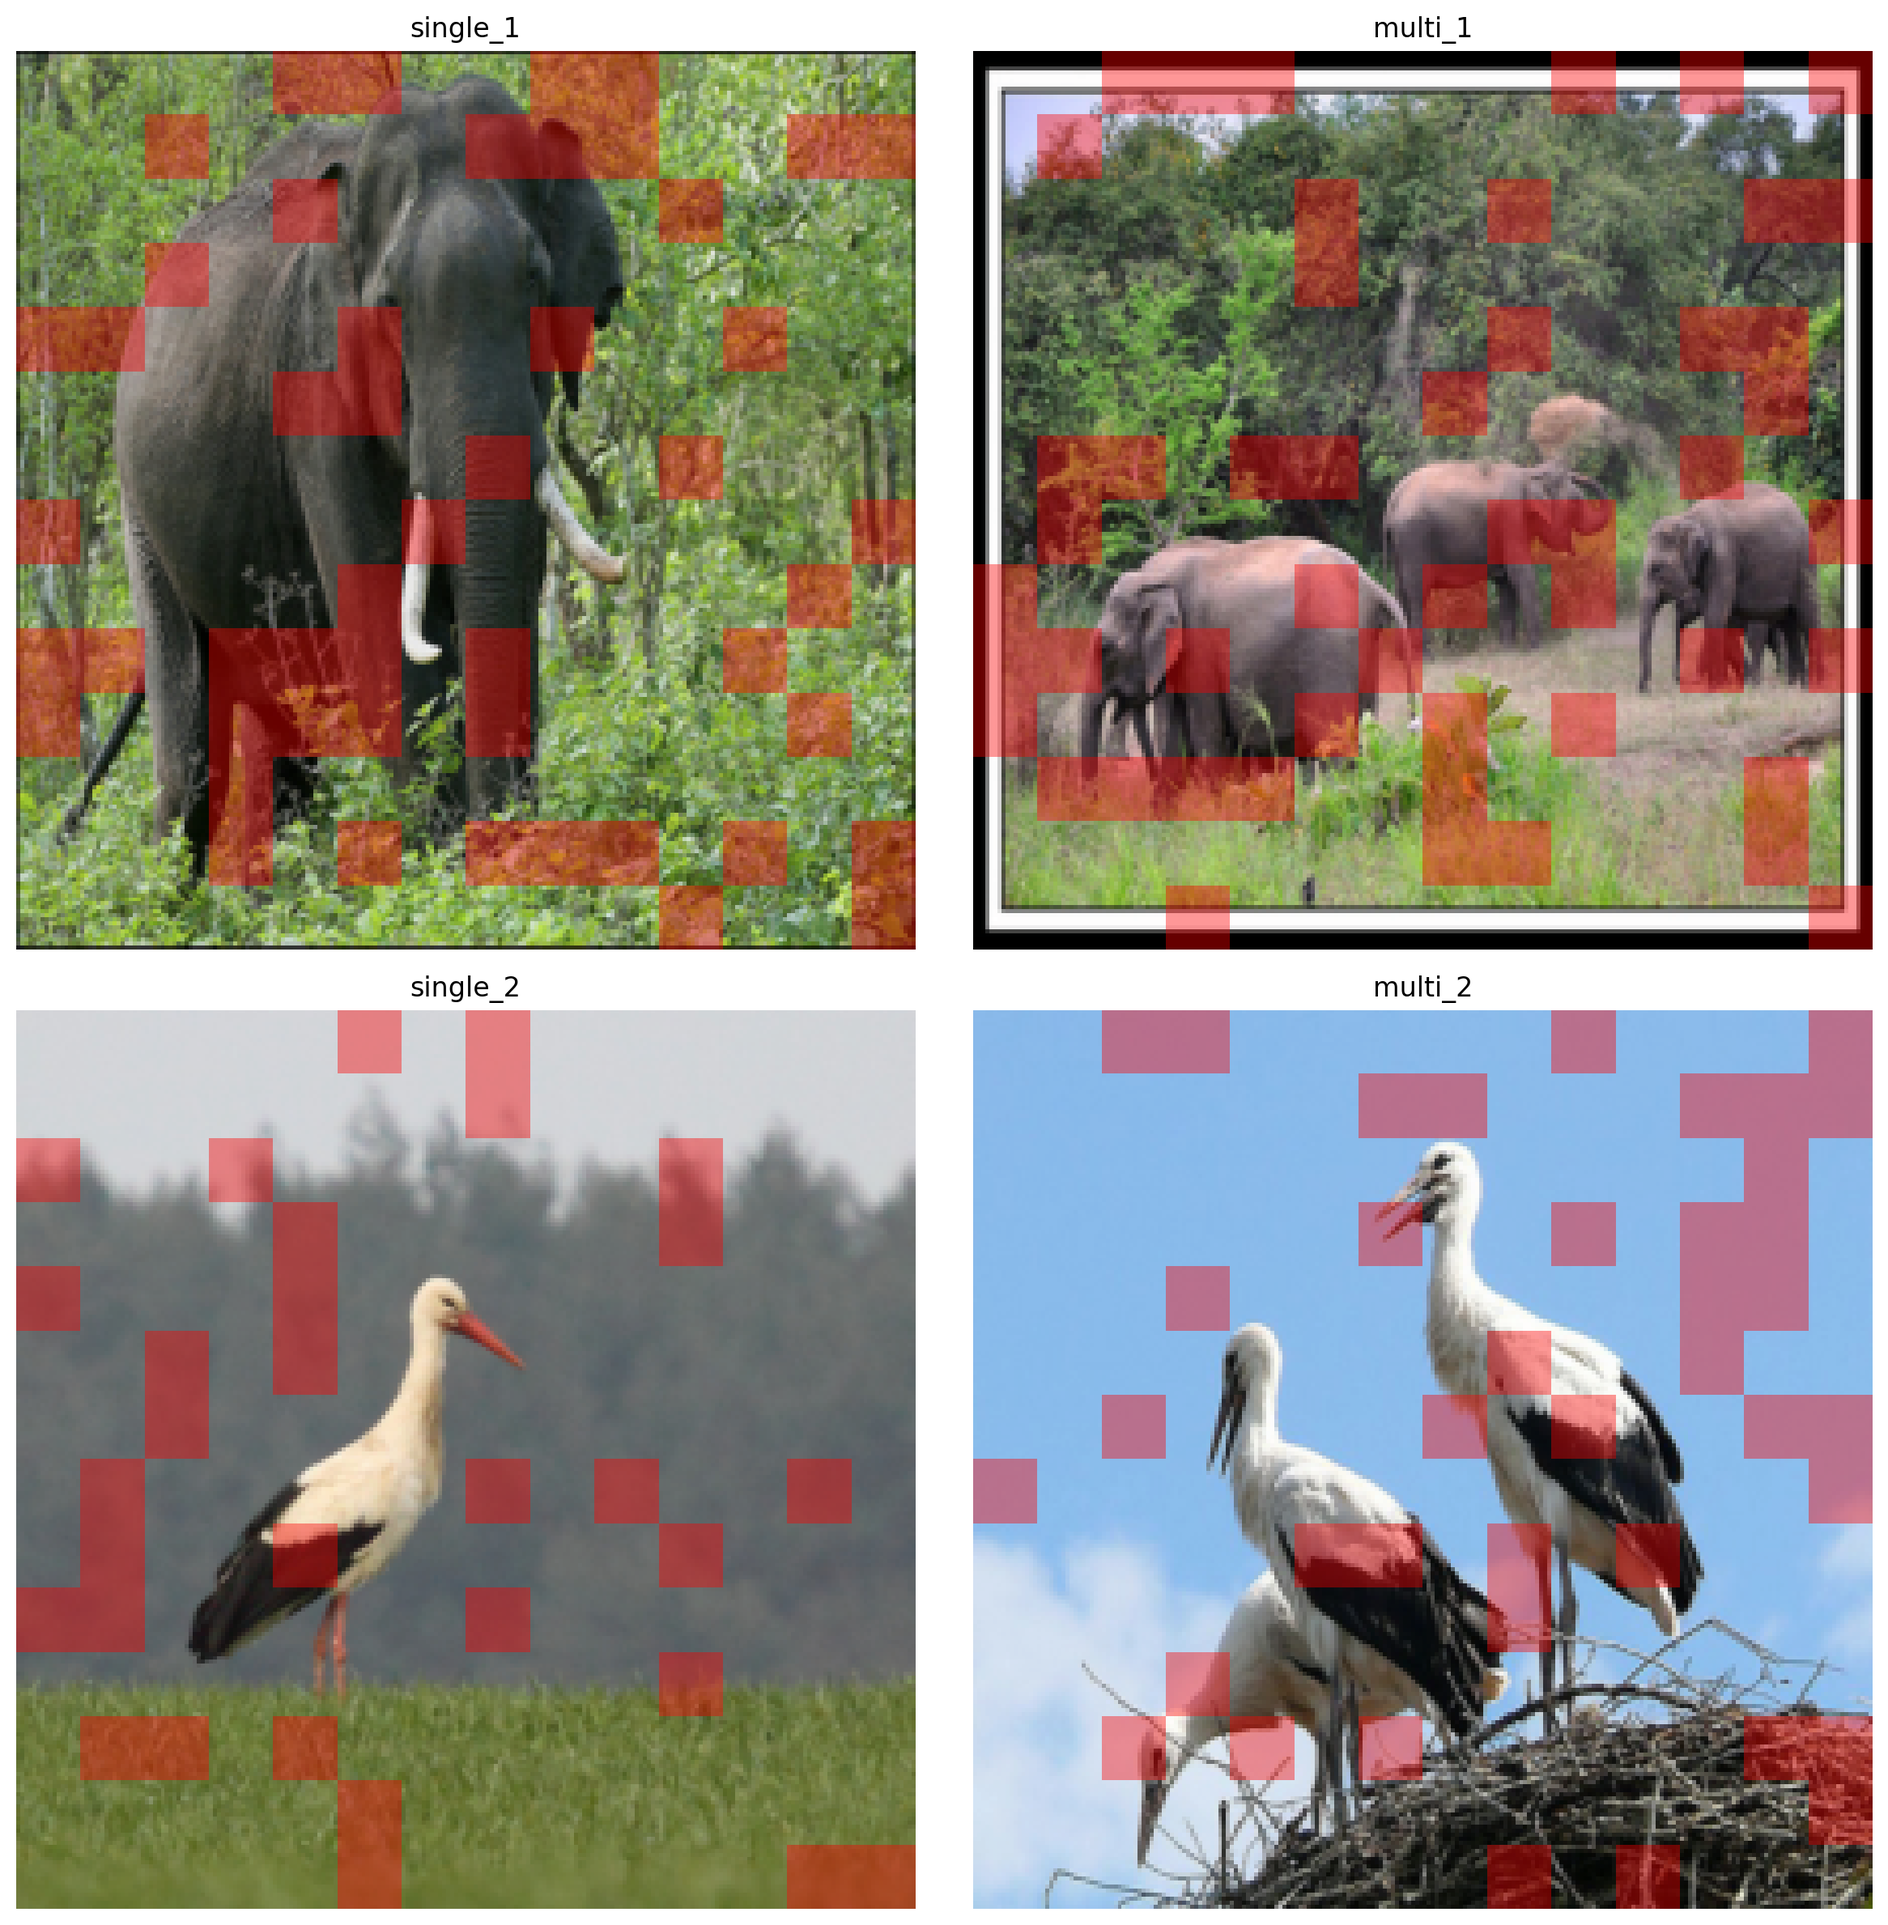
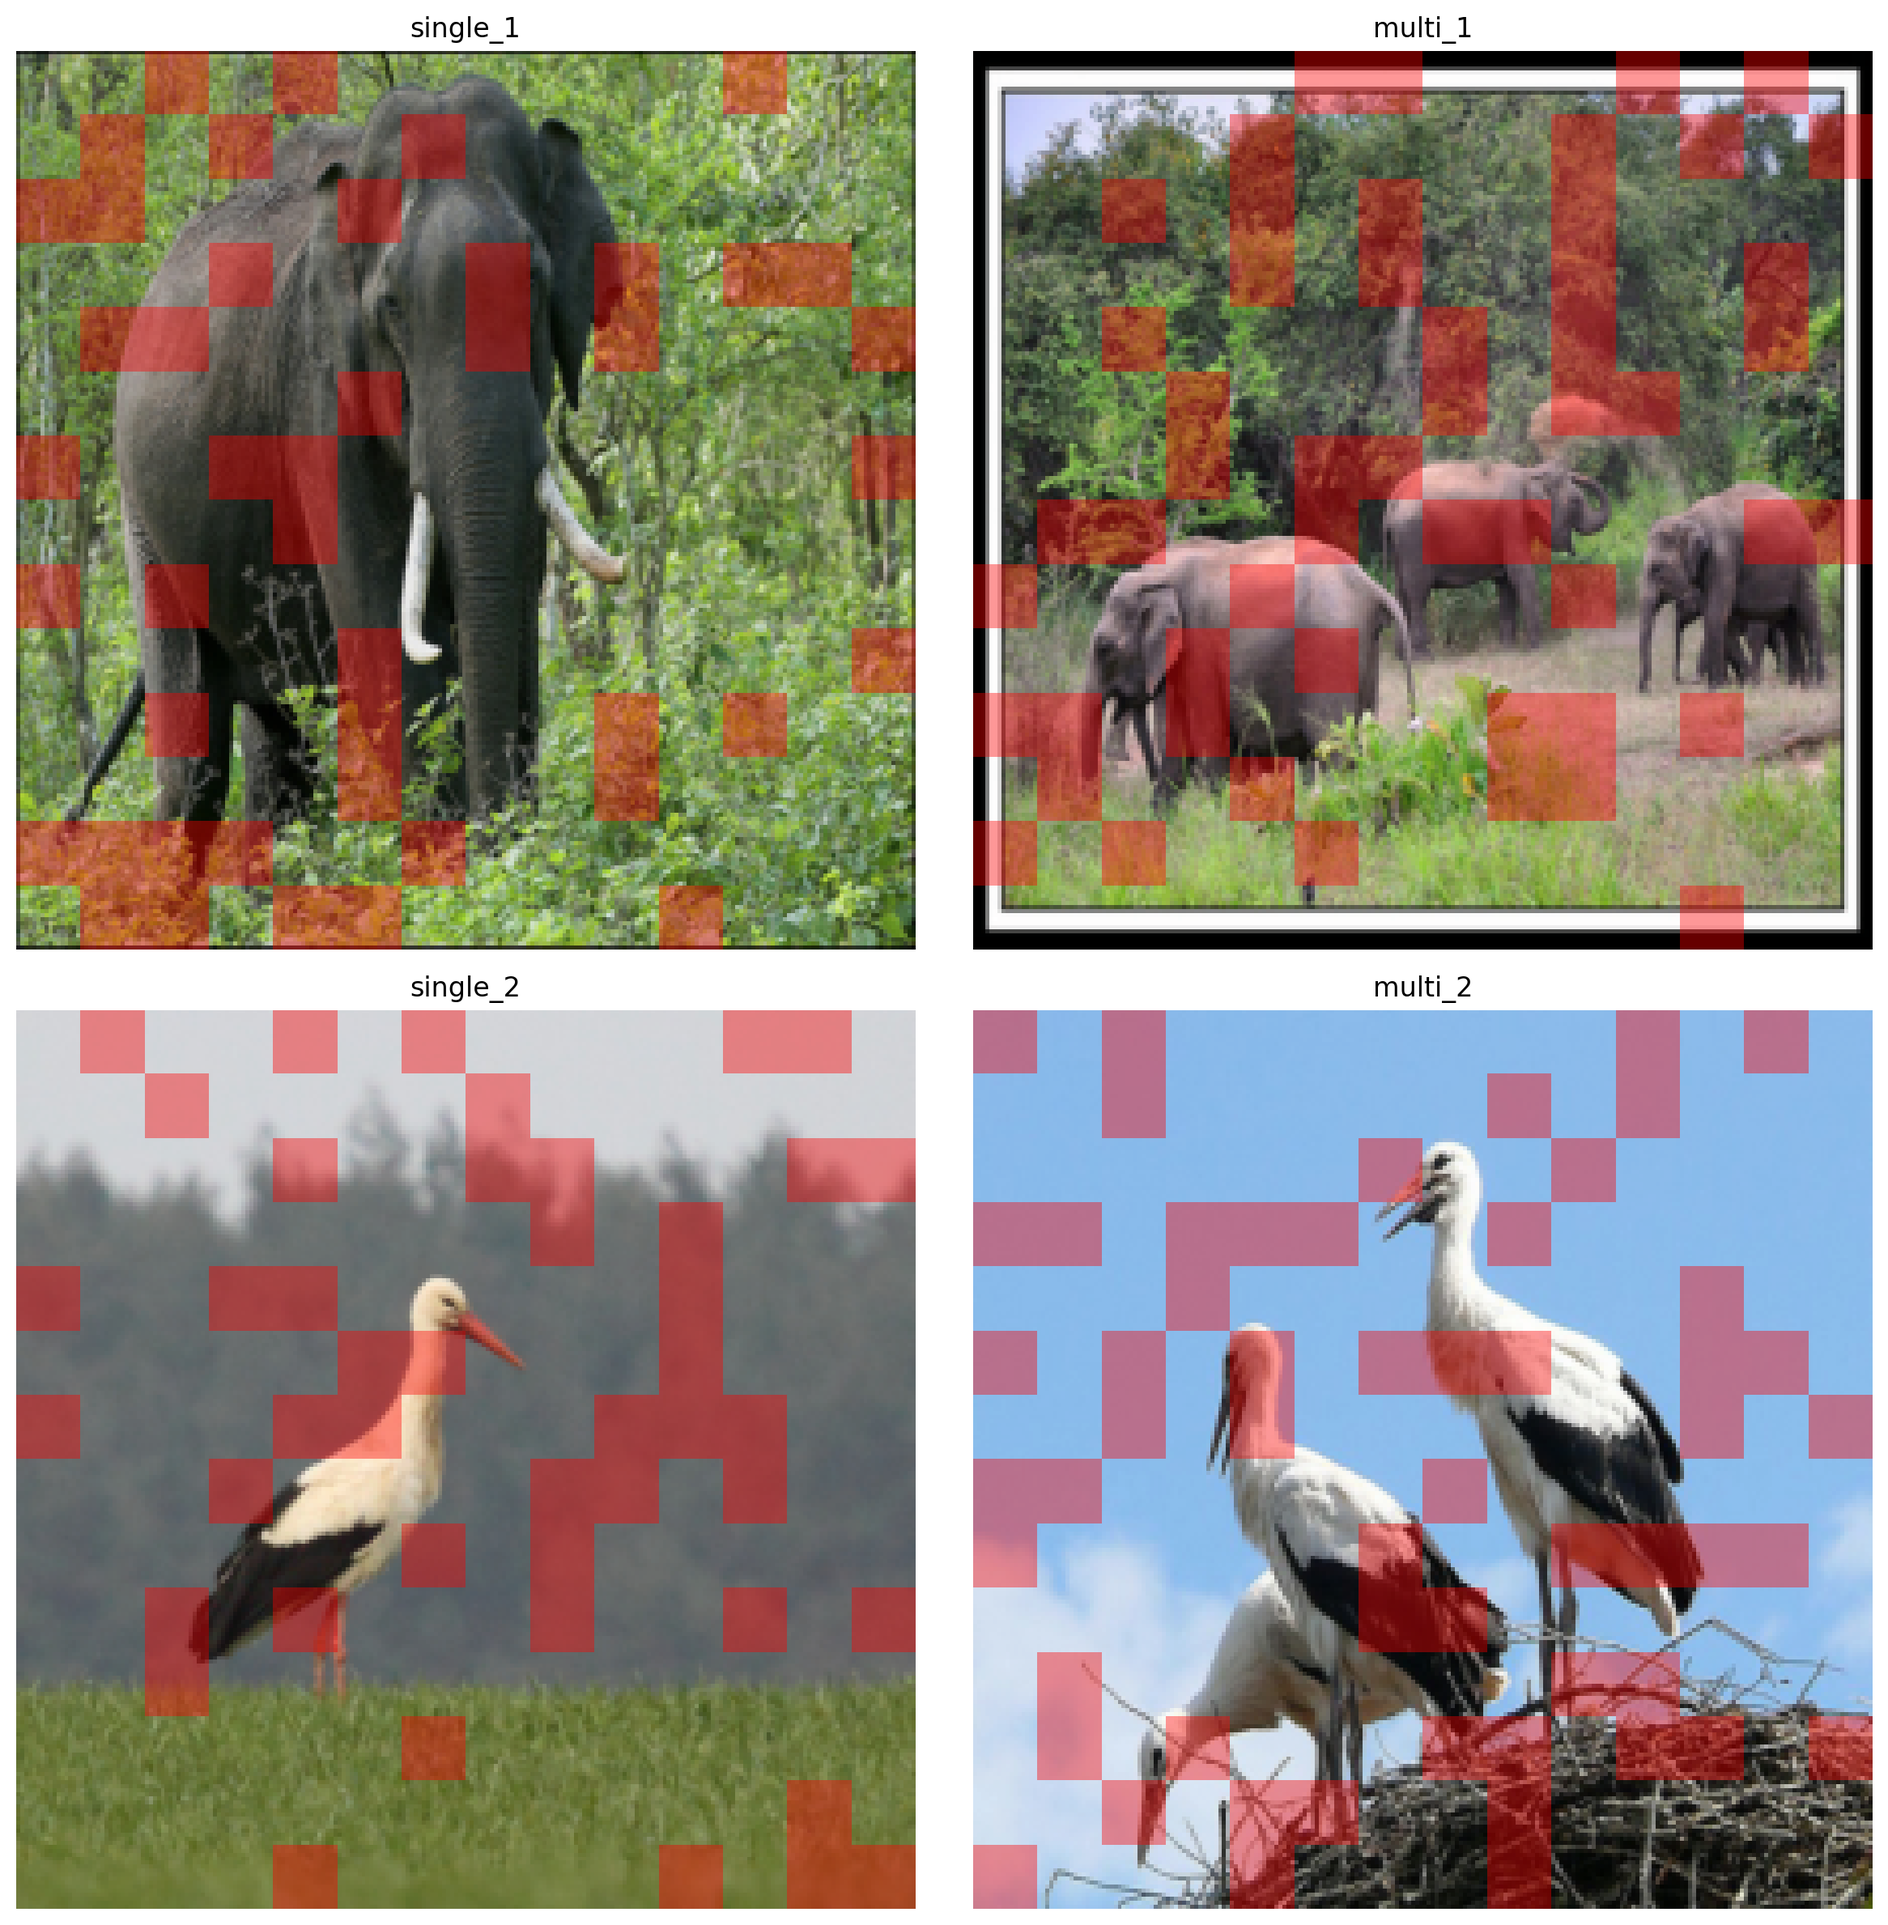
H-Net training is unstablegit add .git add .!

diff --git a/src/open_clip_local/BP.py b/src/open_clip_local/BP.py
@@ -151,53 +151,86 @@ def downsample_with_indices(boundaries: torch.Tensor, hidden: torch.Tensor, null
     https://github.com/goombalab/hnet/blob/main/hnet/modules/dc.py
 """
 
+# class RoutingModule(nn.Module):
+#     def __init__(self, prior, d_model, device=None, dtype=None):
+#         super().__init__()
+#         self.prior = prior
+#         self.d_model = d_model
+#         factory_kwargs = {"device": device, "dtype": dtype}
+
+#         self.q_proj_layer = nn.Linear(d_model, d_model, bias=False, **factory_kwargs)
+#         self.k_proj_layer = nn.Linear(d_model, d_model, bias=False, **factory_kwargs)
+#         with torch.no_grad():
+#             eye_mat = torch.eye(
+#                 d_model,
+#                 device=self.q_proj_layer.weight.device,
+#                 dtype=self.q_proj_layer.weight.dtype,
+#             )
+#             self.q_proj_layer.weight.copy_(eye_mat)
+#             self.k_proj_layer.weight.copy_(eye_mat)
+
+#         self.q_proj_layer.weight._no_reinit = True
+#         self.k_proj_layer.weight._no_reinit = True
+
+#     def forward(self, hidden_states: torch.Tensor):  # [L, B, D]
+#         hidden_states = hidden_states.transpose(0, 1)  # [B, L, D]
+#         q = self.q_proj_layer(hidden_states[:, :-1]).float()
+#         k = self.k_proj_layer(hidden_states[:, 1:]).float()
+#         q = F.normalize(q, dim=-1, eps=1e-6)
+#         k = F.normalize(k, dim=-1, eps=1e-6)
+#         cos_sim = torch.einsum("b l d, b l d -> b l", q, k).clamp(-1.0, 1.0)
+#         boundary_prob = ((1 - cos_sim) / 2).clamp(0.0, 1.0)
+#         boundary_prob = F.pad(boundary_prob, (1, 0), "constant", 1.0)
+
+
+#         boundary_prob = torch.stack(((1 - boundary_prob), boundary_prob), dim=-1)
+#         selected_idx = torch.argmax(boundary_prob, dim=-1)
+#         boundary_mask = selected_idx == 1  # (shape hidden_states.shape[:-1])
+#         # boundary_mask = (boundary_prob >= 0.5).float()
+#         return boundary_prob.to(hidden_states.dtype), boundary_mask.to(hidden_states.dtype)
+
 class RoutingModule(nn.Module):
 
     def __init__(self, prior, d_model, device=None, dtype=None):
-        super().__init__()
         self.prior = prior
         self.d_model = d_model
         factory_kwargs = {"device": device, "dtype": dtype}
-
-
-        # corresponds to qt = Wq * x^t , kt = Wk * x^t in the paper
+        super().__init__()
         self.q_proj_layer = nn.Linear(d_model, d_model, bias=False, **factory_kwargs)
         self.k_proj_layer = nn.Linear(d_model, d_model, bias=False, **factory_kwargs)
         with torch.no_grad():
-            # initial routing = raw cosine similarity between hidden states
-            eye_mat = torch.eye(d_model, device=self.q_proj_layer.weight.device, dtype=self.q_proj_layer.weight.dtype)
-            self.q_proj_layer.weight.copy_(eye_mat)
-            self.k_proj_layer.weight.copy_(eye_mat)
-
-
+            self.q_proj_layer.weight.copy_(torch.eye(d_model))
+            self.k_proj_layer.weight.copy_(torch.eye(d_model))
         self.q_proj_layer.weight._no_reinit = True
         self.k_proj_layer.weight._no_reinit = True
 
-    def forward(self, hidden_states: torch.Tensor): # [L, B, D]
-        # hidden_states: [L, B, D]
-        hidden_states = hidden_states.transpose(0, 1)  # -> [B, L, D]
-
-        # corresponds to the cosine similarity in the paper
+    def forward(self, hidden_states: torch.Tensor):  # [L, B, D]
+        hidden_states = hidden_states.transpose(0, 1)  # [B, L, D]
         cos_sim = torch.einsum(
             "b l d, b l d -> b l",
             F.normalize(self.q_proj_layer(hidden_states[:, :-1]), dim=-1),
             F.normalize(self.k_proj_layer(hidden_states[:, 1:]), dim=-1),
         )
-        # corresponds to the boundary probabilities in the paper
+        # this clamp should no-op as long as no precision issues are encountered
         boundary_prob = torch.clamp(((1 - cos_sim) / 2), min=0.0, max=1.0)
-        PAD_PROB = 1.0 # Force boundary probability of the first element to 1.0
+        # Force boundary probability of the first element to 1.0
+        PAD_PROB = 1.0
         boundary_prob = F.pad(boundary_prob, (1, 0), "constant", PAD_PROB)
 
-        # corresponds to thresholding bt = 1{pt ≥ 0.5} in the paper
-        boundary_mask = boundary_prob >= 0.5
+        boundary_prob = torch.stack(((1 - boundary_prob), boundary_prob), dim=-1)
+        selected_idx = torch.argmax(boundary_prob, dim=-1)
+        boundary_mask = selected_idx == 1  # (shape hidden_states.shape[:-1])
 
-        return boundary_prob, boundary_mask
+        # selected_probs = boundary_prob.gather(
+        #     dim=-1, index=selected_idx.unsqueeze(-1)
+        # )  # (shape hidden_states.shape[:-1], 1)
+
+        return boundary_prob.to(hidden_states.dtype), boundary_mask.to(hidden_states.dtype)
 
     def calc_loss(self, preds: torch.Tensor):
-        """We need this to compute the axillary loss for the boundary predictor"""
         preds = preds.float()
-        total_count = preds.size(-1)              # L
-        target_count = preds.sum(dim=-1)          # [B]
+        total_count = preds.size(-1)
+        target_count = preds.sum(dim=-1)
         binomial = torch.distributions.Binomial(
             total_count=total_count,
             probs=torch.tensor(self.prior, device=preds.device, dtype=preds.dtype)

diff --git a/src/task1_newcodebase.py b/src/task1_newcodebase.py
@@ -15,7 +15,7 @@ from torchvision import datasets
 from torch.utils.data import DataLoader
 from open_clip_local import create_model_and_transforms
 from open_clip_local.model import DTPViT, VisionTransformer, HierarchicalDTPViT
-from open_clip_local.DTP_ViT import SingleAdaptedFixed, XL_Baseline, DTPViT_Causal
+from open_clip_local.DTP_ViT import SingleAdaptedFixed, XL_Baseline, DTPViT_Causal, DTPViT_CosSim
 from boundary_vis import load_dtpx_from_clip_checkpoint
 from open_clip_local import CLIP
 from torch.cuda.amp import GradScaler
@@ -1211,6 +1211,26 @@ def main(args):
         backbone = empty_backbone
         model = VisionClassifier(backbone, num_classes).to(device)
         is_dtp = True # NOTE: important
+    
+    elif MODE == "DRIP_CosSim":
+        empty_backbone = DTPViT_CosSim(
+            image_size=RESOLUTION,
+            patch_size=patch_size,
+            width=width,
+            layers=12,
+            depth=(4, 8, 0),
+            compression_rate=COMPRESSION_RATE,
+            heads=width // 64,
+            mlp_ratio=mlp_ratio,
+            temp=0.5,
+            output_dim=512,
+            pos_embed_type='sin_cos_2d', # 'learnable' or 'sin_cos_2d'
+            pool_type='avg'
+        )
+        backbone = empty_backbone
+        model = VisionClassifier(backbone, num_classes).to(device)
+        is_dtp = True # NOTE: important
+
 
     elif MODE == "fixed_pooling":
         compression_rate = 0.25 # 0.25 for 4x, 0.1 for 10x

diff --git a/src/imagenet_ckpt_vit.py b/src/imagenet_ckpt_vit.py
@@ -133,7 +133,12 @@ def get_dtpvit_hard_boundaries(model: DTPViT, img_3chw: torch.Tensor):
             IF your BoundaryPredictor exposes raw logits/probs somewhere, swap this to match QwenDRIP exactly.
             Otherwise this uses the predictor's own hard output.
         """
-        _, hard_boundaries = model.boundary_predictor(x_transposed)   # [B, 1+L]
+        boundary_probabilities, hard_boundaries = model.boundary_predictor(x_transposed)   # [B, 1+L]
+        print("================================")
+        np.set_printoptions(suppress=True, precision=4)
+        print(f"Boundary probabilities multiplied by 1000:")
+        print(boundary_probabilities.cpu().numpy() * 1000)
+        print("================================")
 
     # remove CLS before reshaping to patch grid
     hard_boundaries = hard_boundaries[:, 1:]   # [B, L_patch]
@@ -771,8 +776,11 @@ def visualize_attention_single_multi_causal(
 
 
 def main():
-    ckpt_path = "/fs/scratch/PAS2836/yusenpeng_checkpoint/imagenet_causal_DRIP/checkpoint.pth"
-    TYPE = "causal" # "bidirectional" or "causal" or "H-Net"
+    ckpt_path = "/fs/scratch/PAS2836/yusenpeng_checkpoint/imagenet_bidirectional_DRIP/checkpoint.pth"
+    TYPE = "bidirectional" # "bidirectional" or "causal" or "H-Net"
+
+    #ckpt_path = "/fs/scratch/PAS2836/yusenpeng_checkpoint/imagenet_causal_DRIP/checkpoint.pth"
+
 
     patch_size = 16
     COMPRESSION_RATE = 0.25
